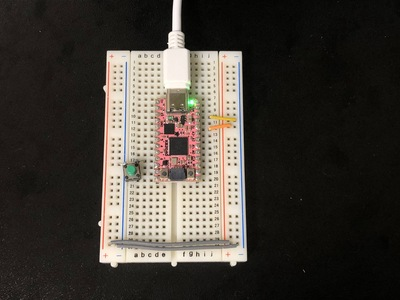
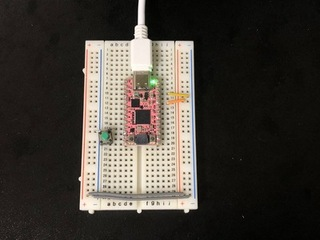
画像を縮小

diff --git a/fr0_example_projects/proj1/readme.md b/fr0_example_projects/proj1/readme.md
@@ -2,8 +2,6 @@
 
 サンプルプロジェクト
 
-![](thumbnail.jpg)
-
 ![](https://i.imgur.com/StokW11.jpg)
 
 スイッチを押すことで、LEDの点灯状態を変更できます。
